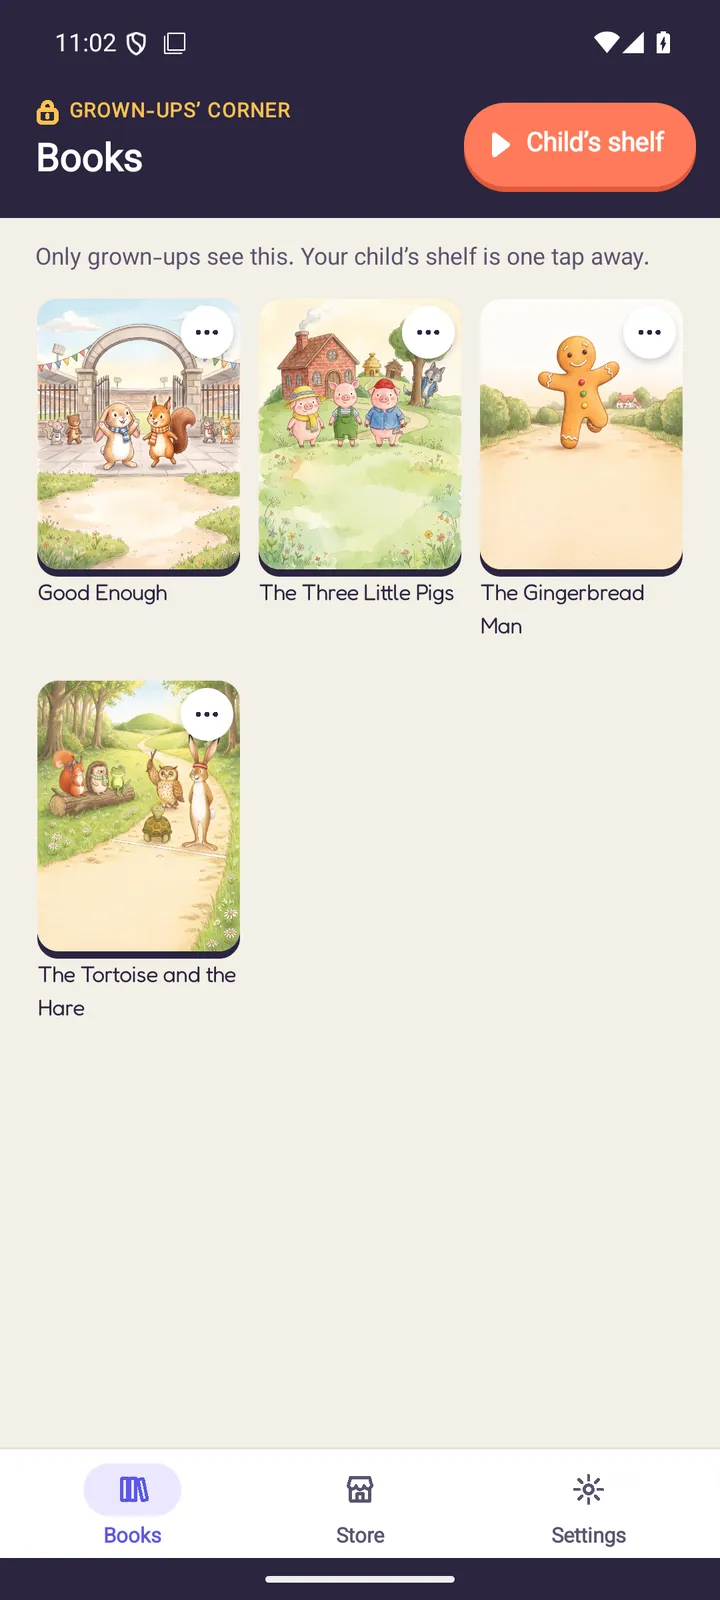
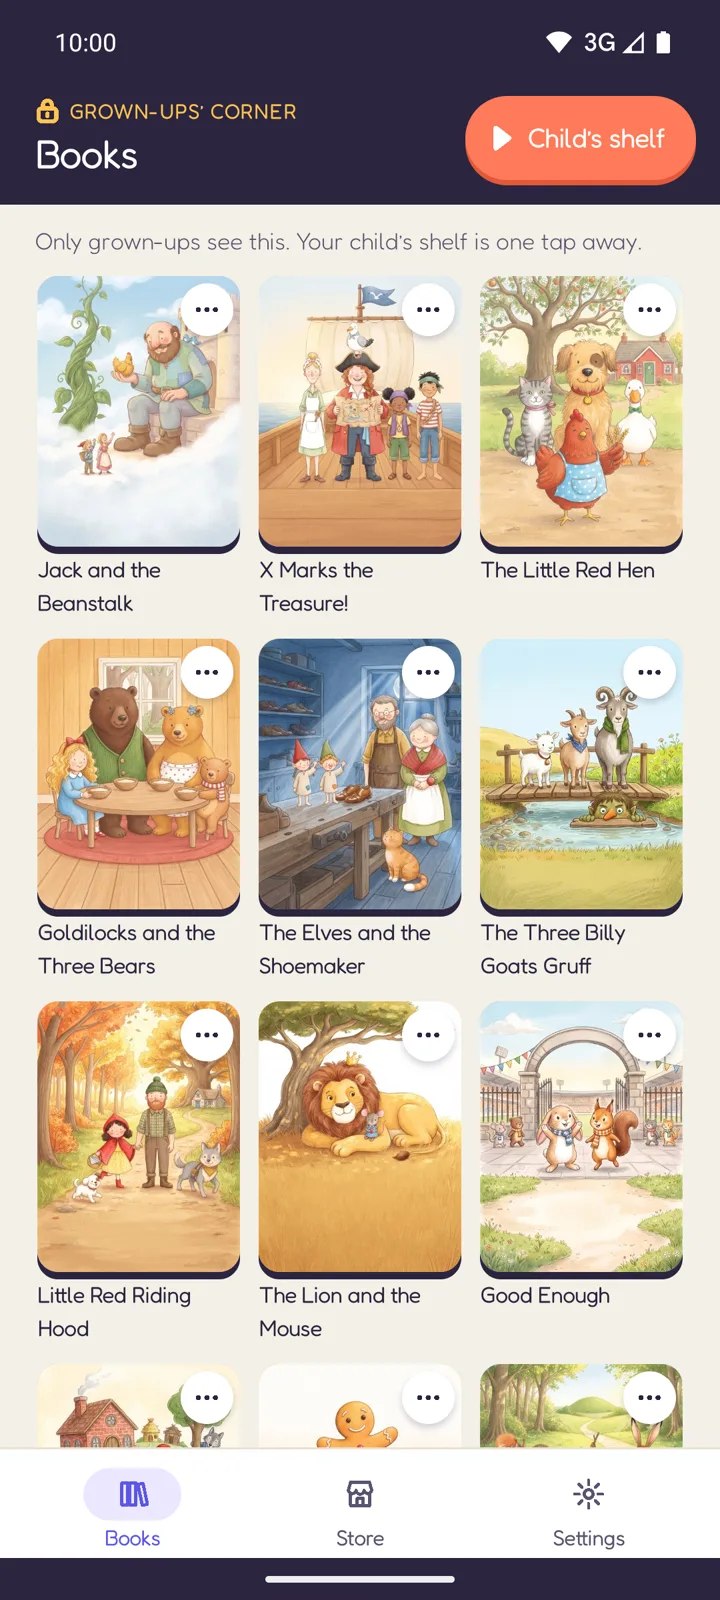
feat(dino): web pages show the retaken screenshots (Slice 417 item 6)

diff --git a/site/dino/index.html b/site/dino/index.html
@@ -145,9 +145,9 @@
       <section aria-labelledby="shots">
         <h2 id="shots">A look inside</h2>
         <ul class="gallery" tabindex="0" aria-label="App screenshots">
-          <li><figure><img src="/dino/shot-shelf.webp" width="720" height="1600" loading="lazy" alt="The My stories shelf with the story covers to choose from." /><figcaption>The kids&rsquo; shelf</figcaption></figure></li>
+          <li><figure><img src="/dino/shot-shelf.webp" width="720" height="1600" loading="lazy" alt="The My stories shelf with illustrated story covers to choose from." /><figcaption>The kids&rsquo; shelf</figcaption></figure></li>
           <li><figure><img src="/dino/shot-reading.webp" width="720" height="1600" loading="lazy" alt="A story page showing the picture and its text, with the sentence being read lit up." /><figcaption>Picture and text, one sentence lit up</figcaption></figure></li>
-          <li><figure><img src="/dino/shot-rtl.webp" width="720" height="1600" loading="lazy" alt="A story page in Farsi, read right to left, with the sentence being read lit up." /><figcaption>Right to left, in Farsi</figcaption></figure></li>
+          <li><figure><img src="/dino/shot-language.webp" width="720" height="1600" loading="lazy" alt="The same story page in German, with the sentence being read lit up." /><figcaption>The same story in German</figcaption></figure></li>
           <li><figure><img src="/dino/shot-record.webp" width="720" height="1600" loading="lazy" alt="The screen where a family records their own voice for a character." /><figcaption>Record a character</figcaption></figure></li>
           <li><figure><img src="/dino/shot-grownups.webp" width="720" height="1600" loading="lazy" alt="The grown-ups corner, listing the books on the shelf, with the Books, Store and Settings tabs." /><figcaption>The grown-ups corner</figcaption></figure></li>
         </ul>

diff --git a/docs/plan/slices/417-dino-sites-after-launch.md b/docs/plan/slices/417-dino-sites-after-launch.md
@@ -65,8 +65,11 @@ in the separate repo ashkansirous/sirous.uk: src/data/products.ts, src/assets/pr
 5. [ ] Google group `sirous-app-testers`: no API reaches a consumer Google group; the owner closes or deletes it at
    https://groups.google.com/g/sirous-app-testers/settings (owner step, link given).
 
-6. [ ] Swap the site screenshots (`site/dino/*.webp` and the sirous.uk `src/assets/products/dino-reader*.webp`) for
+6. [x] Swap the site screenshots (`site/dino/*.webp` and the sirous.uk `src/assets/products/dino-reader*.webp`) for
    Slice 404's retaken English set (German shot 3) once it is in `docs/store-listings/screenshots/dino/` (review s417-high #4).
+   Built (2026-11-19, branch feat/s417-shots): the five `site/dino/shot-*.webp` are the retaken uncaptioned set at 720x1600
+   (`shot-rtl.webp` renamed `shot-language.webp`, now German; the required-file list in `worker/check-site-eol.mjs` and the
+   page's captions and alt text follow; the grown-ups alt names no count, since the picture shows nine of the twelve). The pictures come from Slice 404's retake on branch feat/s404-shots (run 44565564642 and emulator-5554), merged alongside. The sirous.uk twin is branch feat/dino-shots there.
 7. [x] The in-app iOS update button (`src/Dino/DinoReader.App/IosUpdateTarget.cs:14`) still opens the public TestFlight
    link, now switched off (item 4): point it at the App Store page `https://apps.apple.com/app/id6825053435` for every
    channel (review s417-high #1). App code: its own branch and the full review gate.
